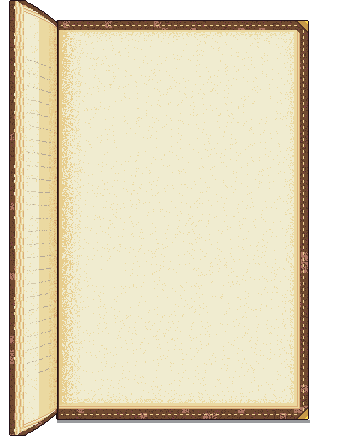
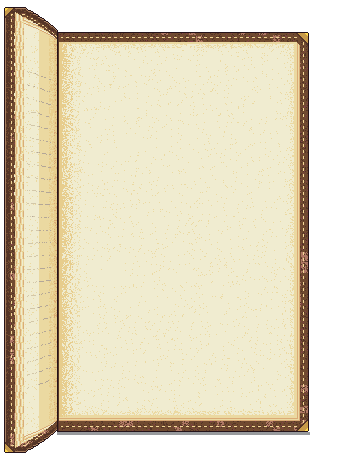
Journal: bulkier lifted cover with depth and brass corners; book centred on screen
Claude-Session: https://claude.ai/code/session_01AFuv3xBDCFNHg8cxuFG86Z

diff --git a/src/ui/Journal.js b/src/ui/Journal.js
@@ -1,4 +1,5 @@
 import { W, H, DEPTH, INK, label, pin, lerp } from '../core/constants.js';
+import { ART } from '../core/Assets.js';
 import { pill } from './Panels.js';
 import { FISH, RARITY } from '../../data/fish/fish.js';
 import { JOURNAL } from '../../data/fish/journal.js';
@@ -6,18 +7,22 @@ import { Swimmer } from '../fish/Swim.js';
 import { Flopper } from '../fish/Flop.js';
 
 // The book as you hold it to read (journal-held.png): the left half lifted
-// toward you on its spine, the right-hand page flat, facing you and centred
-// on the screen, with everything to read on it. Positions are in the
-// image's own pixels.
-const IH = 444;
-const SPINE = 58;
-const PAGE = { x0: 59, x1: 296, y0: 30, y1: 405 }; // the right page's paper
-const HELD = { x: 24, rise: 18 }; // the lifted page's free edge, and how much taller it looks
-const X0 = PAGE.x0 + 14; // the writing, clear of the gutter's shadow
-const X1 = PAGE.x1 - 12;
-const TW = X1 - X0;
-const CX = Math.round((X0 + X1) / 2);
-const FOOT = PAGE.y1 - 13;
+// toward you on its spine, the right-hand page flat and facing you, with
+// everything to read on it; the whole book centred on the screen. Positions
+// are in the image's own pixels, read from the build's notes on the art
+// (anchors.journal in the manifest) once it has loaded.
+let IH, SPINE, PAGE, HELD, X0, X1, TW, CX, FOOT;
+function adopt(a) {
+  IH = a.h;
+  SPINE = a.spine;
+  PAGE = a.page; // the right page's paper
+  HELD = a.held; // the lifted page's free edge, and how much taller it looks
+  X0 = PAGE.x0 + 14; // the writing, clear of the gutter's shadow
+  X1 = PAGE.x1 - 12;
+  TW = X1 - X0;
+  CX = Math.round((X0 + X1) / 2);
+  FOOT = PAGE.y1 - 13;
+}
 const LINE = 14; // a line of ink text, line spacing included
 const TURN_MS = 480;
 
@@ -46,6 +51,8 @@ export class Journal {
     this.canOpen = canOpen;
     this.isOpen = false;
     this.page = 0; // 0 is the contents; fish i is on page i + 1
+    const a = ART.anchors.journal;
+    adopt(a);
 
     const bx = W - 62;
     const by = H - 26;
@@ -58,7 +65,7 @@ export class Journal {
 
     const dim = scene.add.rectangle(W / 2, H / 2, W, H, 0x10141c, 0.55);
     const art = scene.add.image(0, 0, 'journal-held').setOrigin(0);
-    this.hit = scene.add.rectangle(0, 0, W, IH, 0x000000, 0).setOrigin(0).setInteractive();
+    this.hit = scene.add.rectangle(a.x0, 0, a.x1 - a.x0 + 1, IH, 0x000000, 0).setOrigin(0).setInteractive();
     this.hit.on('pointerdown', (p, x, y, e) => {
       e.stopPropagation();
       this.drag = { x: p.x, y: p.y };
@@ -67,7 +74,9 @@ export class Journal {
     this.pages = scene.add.container(0, 0);
     this.sheet = scene.add.graphics(); // the page being turned
     this.ribbon = scene.add.graphics(); // the red ribbon bookmark
-    this.book = scene.add.container(0, this.homeY(), [art, this.hit, this.pages, this.ribbon, this.sheet]);
+    // centred: as much room to its left as to its right
+    const left = Math.round(W / 2 - (a.x0 + a.x1 + 1) / 2);
+    this.book = scene.add.container(left, this.homeY(), [art, this.hit, this.pages, this.ribbon, this.sheet]);
     this.root = scene.add.container(0, 0, [dim, this.book]).setDepth(DEPTH.UI + 6).setVisible(false);
   }
 

diff --git a/tools/build_art.py b/tools/build_art.py
@@ -807,8 +807,8 @@ def journal():
     # board behind them.
     LEATHER_MID = hexc("#833f4c")
     BASE, AGED, DEEP, EDGE2 = hexc("#f0ecd0"), hexc("#ebd9a1"), hexc("#e7cd8d"), hexc("#daab76")
-    IW, IH = 360, 444
-    PX0, PX1, PY0, PY1 = 60, 296, 30, 405  # the right page's paper
+    IW, IH = 360, 464
+    PX0, PX1, PY0, PY1 = 60, 296, 42, 417  # the right page's paper
     SP = 57  # the spine, at the gutter
     OUTER = 24  # the lifted page's free edge
     RISE = 18  # how much taller the near edge looks
@@ -860,12 +860,13 @@ def journal():
         bow = t ** 0.7
         return round((PY0 - RISE * bow) if top else (PY1 + RISE * bow))
     T = 10  # the turned pages' thickness at the free edge
-    for x in range(OUTER - T - 4, SP):
+    C = 9  # the cover board round them: its inside face, then its thick edge
+    for x in range(OUTER - T - C, SP):
         xe = max(x, OUTER)
         t = (SP - xe) / (SP - OUTER)
         y0, y1 = edge_y(xe, True), edge_y(xe, False)
         band = round(1 + 6 * t)  # the page block seen along the top and bottom
-        for y in range(y0 - band - 4, y1 + band + 5):
+        for y in range(y0 - band - C, y1 + band + C + 1):
             if x >= OUTER and y0 <= y <= y1:
                 n = hash01(x, y, 13)
                 # darker toward the spine where it curves and turns from the light
@@ -886,8 +887,18 @@ def journal():
                 k = (y0 - y) if y < y0 else (y - y1)
                 px[x, y] = (AGED, EDGE2, BASE)[k % 3] if hash01(x, y, 6) > 0.06 else DEEP
                 continue
-            # the cover board behind the pages
-            px[x, y] = leather(x, y)
+            # the cover board behind the pages: its inside face, stitched,
+            # then the board's own thickness turned toward you, darker, with
+            # a worn highlight along its outer corner
+            d = min(x - (OUTER - T - C), y - (y0 - band - C), (y1 + band + C) - y)
+            if d < 1:
+                px[x, y] = LEATHER_LT
+            elif d < 5:
+                px[x, y] = LEATHER_DK if hash01(x, y, 3) > 0.2 else LEATHER
+            elif d == 6 and (x + y) % 6 < 3:
+                px[x, y] = STITCH
+            else:
+                px[x, y] = leather(x, y)
     # faint lines of writing on the lifted page, squeezed by the foreshortening
     # and converging with its edges
     for j in range(1, 26):
@@ -903,6 +914,15 @@ def journal():
     for y in range(PY0 - 9, PY1 + 14):
         px[SP, y] = OUTLINE + (255,)
         px[SP + 1, y] = LEATHER_DK
+    # brass caps on the lifted board's outer corners
+    for (top, sy) in ((True, 1), (False, -1)):
+        x0 = OUTER - T - C
+        cy = edge_y(OUTER, top) + (-(7 + C) if top else 7 + C)
+        for i in range(10):
+            for j in range(10 - i):
+                x, y = x0 + i, cy + sy * j
+                if 0 <= x < IW and 0 <= y < IH:
+                    px[x, y] = GLINT if i + j < 3 else BRASS if i + j < 8 else LEATHER_DK
     # brass caps on the right board's outer corners
     for (cy, sy) in ((PY0 - 9, 1), (PY1 + 13, -1)):
         for i in range(12):
@@ -916,6 +936,14 @@ def journal():
             if not px[x, y][3]:
                 px[x, y] = (16, 20, 28, 110)
     save(im, "ui/journal-held.png", grade=False)
+    # where the book's drawing starts and ends across the image, so the game
+    # can centre it on the screen
+    cols = [x for x in range(IW) if any(im.getpixel((x, y))[3] > 200 for y in range(IH))]
+    manifest["anchors"]["journal"] = {
+        "x0": cols[0], "x1": cols[-1], "h": IH, "spine": SP + 1,
+        "page": {"x0": PX0 - 1, "x1": PX1, "y0": PY0, "y1": PY1},
+        "held": {"x": OUTER, "rise": RISE},
+    }
 
 
 # ---------------------------------------------------------------- fonts

diff --git a/docs/ART_DIRECTION.md b/docs/ART_DIRECTION.md
@@ -245,7 +245,12 @@ overhangs the pages, stitched round the edge with brass corner caps, and
 the edges of the pages beneath show along the right and bottom. You're
 well into the book, so the lifted half is thick with turned pages: a deep
 block of page edges along its free edge and its top and bottom, deeper
-toward the free edge (it's nearer), a few pages standing proud of the rest. A red satin ribbon lies down the page
+toward the free edge (it's nearer), a few pages standing proud of the rest,
+and round them the lifted cover: a thick board whose stitched inside face
+shows, then its own edge turned toward you, darker, with a worn highlight
+and brass on its corners. The whole book is centred on the screen, as much
+room to its left as to its right (the build records where the drawing
+starts and ends, and the page positions, in `anchors.journal`). A red satin ribbon lies down the page
 beside the gutter and hangs out past the cover, V-cut at its end; tap it to
 go to the contents. The same ribbon trails from the closed journal on the
 button.
@@ -296,7 +301,7 @@ a clue to where it lives. Swipe or tap the arrows to turn the page.
 | Float, branch, ripples | Nelson Yiap, Amberfall | 1x | shared | bob cycles |
 | Splash, bubbles, coins, boards | Pixel Frog (Treasure Hunters) | 1x | own | splash 5 frames; coin spin |
 | Backpack (inventory button and icon) | drawn in the build (`backpack()`) in palette colours | 24 x 24, 1x | shared | closed; opens in 3 frames when the inventory opens, then a slow rummage loop; shuts again when it closes; a little hop now and then |
-| Journal (button icon and book) | drawn in the build (`journal()`) in palette colours | icon 24 x 24; held book 360 x 444, its right page 237 x 375, 1x | shared | closed; opens in 3 frames, page corner lifting while read; the page slides as it turns |
+| Journal (button icon and book) | drawn in the build (`journal()`) in palette colours | icon 24 x 24; held book 360 x 464, its right page 237 x 375, 1x | shared | closed; opens in 3 frames, page corner lifting while read; the page slides as it turns |
 | Lettering | Kenney Pixel and Kenney Mini | 16px glyphs, 1x or 2x | shared | stepped bobbing |
 
 ## Changing the art
